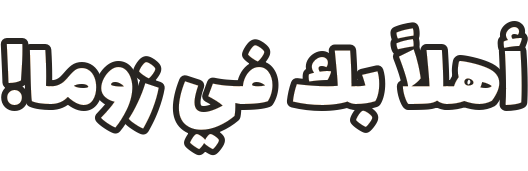
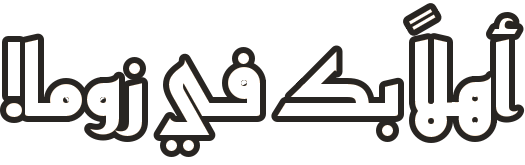
Arabic: stone words follow the stone's slant/perspective; wooden button words smaller and centred; welcome in Kufi, smaller
Claude-Session: https://claude.ai/code/session_01PLa1pRBxpEYJaiQfMqPxWP

Changed region(s): [[0.0, 0.0, 1.0, 0.9697]]

diff --git a/tools/make_arabic_buttons.py b/tools/make_arabic_buttons.py
@@ -19,6 +19,7 @@ import cv2
 from PIL import Image, ImageDraw, ImageFont
 
 HERE = os.path.dirname(os.path.abspath(__file__))
+CARVED_GEOM = None
 ROOT = os.path.dirname(HERE)
 UPSTREAM = 'b05dc19'   # original pictures, before any change of ours
 KUFI = os.path.join(HERE, 'fonts', 'ReemKufi.ttf')
@@ -67,6 +68,35 @@ def inner_band(h, w, style):
     else:
         b[int(h * .22):int(h * .90), int(w * .20):int(w * .80)] = 1
     return b
+
+# wooden buttons: part of the width that is the flat board (not the arrow)
+body_box = {
+    'رجوع': (0.20, 0.97),     # BACK: arrow on the left
+    'التالي': (0.03, 0.78),   # NEXT: arrow on the right
+    'العب': (0.04, 0.96),
+    'القائمة الرئيسية': (0.05, 0.95),
+    'القائمة': (0.05, 0.95),
+}
+
+def text_lines(m):
+    """Top and bottom lines of the old letters (they follow the stone)."""
+    xs, tops, bots = [], [], []
+    for x in range(m.shape[1]):
+        ys = np.where(m[:, x] > 0)[0]
+        if len(ys) > 3:
+            xs.append(x); tops.append(ys.min()); bots.append(ys.max())
+    xs = np.array(xs, np.float32)
+    def robust(vals):
+        vals = np.array(vals, np.float32)
+        p = np.polyfit(xs, vals, 1)
+        for _ in range(2):
+            r = np.abs(np.polyval(p, xs) - vals)
+            keep = r <= np.percentile(r, 60)
+            p = np.polyfit(xs[keep], vals[keep], 1)
+        p[0] = float(np.clip(p[0], -0.15, 0.15))
+        p[1] = float(np.median(vals - p[0] * xs))
+        return lambda x, p=p: float(np.polyval(p, x))
+    return robust(tops), robust(bots)
 
 def arabic_mask(text, lines):
     font = ImageFont.truetype(KUFI, 160, layout_engine=ImageFont.Layout.RAQM)
@@ -163,14 +193,50 @@ def paint_state(reg, style, text, lines, ref_mask=None, ref_box=None, seed=0):
     bx0, by0, bx1, by1 = box
     bw, bh = bx1 - bx0 + 1, by1 - by0 + 1
     a_src = arabic_mask(text, lines)
-    if style == 'embossed':
-        a_fit = fit(a_src, bw * 0.85, bh * 0.92, style)
+    a = np.zeros((h, w), np.float32)
+    if style == 'carved':
+        # follow the stone: same slant and perspective as the English letters.
+        # The shape is measured on the normal state and reused (moved) on the
+        # others, so the word has the same size in all three.
+        global CARVED_GEOM
+        ys_m, xs_m = np.where(m > 0)
+        cen = (xs_m.mean(), ys_m.mean())
+        if seed == 0:
+            CARVED_GEOM = (text_lines(m), (bx0, bx1), cen)
+        (t0, b0), (gx0, gx1), c0 = CARVED_GEOM
+        dx, dy = cen[0] - c0[0], cen[1] - c0[1]
+        top_l = lambda x, t0=t0: t0(x - dx) + dy
+        bot_l = lambda x, b0=b0: b0(x - dx) + dy
+        bx0, bx1 = gx0 + dx, gx1 + dx
+        bw = bx1 - bx0 + 1
+        hav = np.mean([bot_l(x) - top_l(x) for x in (bx0, bx1)])
+        ar = a_src.shape[1] / a_src.shape[0]
+        tw = min(bw * 1.0, hav * 1.3 * ar)
+        cx = (bx0 + bx1) / 2
+        x0, x1 = cx - tw / 2, cx + tw / 2
+        shrink = (hav - min(hav, tw / ar)) / 2
+        src = cv2.resize(a_src, (int(tw), int(hav)), interpolation=cv2.INTER_AREA)
+        # keep the word's shape: letters fill the height only as much as they need
+        sh, sw = src.shape
+        quad_src = np.float32([[0, 0], [sw, 0], [sw, sh], [0, sh]])
+        quad_dst = np.float32([[x0, top_l(x0) + shrink], [x1, top_l(x1) + shrink],
+                               [x1, bot_l(x1) - shrink], [x0, bot_l(x0) - shrink]])
+        P = cv2.getPerspectiveTransform(quad_src, quad_dst)
+        a = cv2.warpPerspective(src, P, (w, h), flags=cv2.INTER_LINEAR)
+        gy, th = int(min(top_l(x0), top_l(x1))), int(hav)
     else:
-        a_fit = fit(a_src, bw * 1.04, bh * 0.98, style)
-    th, tw = a_fit.shape
-    gx = int(bx0 + (bw - tw) / 2); gy = int(by0 + (bh - th) / 2)
-    gx = max(0, min(w - tw, gx)); gy = max(0, min(h - th, gy))
-    a = np.zeros((h, w), np.float32); a[gy:gy + th, gx:gx + tw] = a_fit
+        if style == 'embossed':
+            a_fit = fit(a_src, bw * 0.85, bh * 0.92, style)
+            cx, cy = (bx0 + bx1) / 2, (by0 + by1) / 2
+        else:
+            body = body_box.get(text)
+            bx0b, bx1b = (body[0] * w, body[1] * w) if body else (bx0, bx1)
+            a_fit = fit(a_src, (bx1b - bx0b) * 0.80, bh * 0.78, style)
+            cx, cy = (bx0b + bx1b) / 2, h * 0.5 - 1
+        th, tw = a_fit.shape
+        gx = int(cx - tw / 2); gy = int(cy - th / 2)
+        gx = max(0, min(w - tw, gx)); gy = max(0, min(h - th, gy))
+        a[gy:gy + th, gx:gx + tw] = a_fit
     a = np.clip(a * 1.2, 0, 1)
 
     # letter colours: same gradient as the English letters had

diff --git a/src/menu/MenuMgr.c b/src/menu/MenuMgr.c
@@ -1452,7 +1452,10 @@ void MenuMgr_DrawWelcome(Engine *engine, MenuMgr* m) {
     int cur = m->profiles.current;
     if (cur >= 0) {
         SDL_snprintf(buff, sizeof(buff), "WELCOME TO ZUMA HD, %s!", m->profiles.names[cur]);
-        Engine_DrawTextExt(engine, buff, FONT_NATIVE_ALIEN_EXT_16, white, false, true, 640, 0);
+        /* Arabic: Kufi, a bit smaller so it sits nicely in the sky */
+        Engine_DrawTextExtScale(engine, buff, FONT_NATIVE_ALIEN_EXT_16,
+            Lang_Get() == LANG_AR ? 0.8f : 1.0f, white, false, true, 640,
+            Lang_Get() == LANG_AR ? 6 : 0);
 
     } else {
         Engine_DrawTextExt(engine, "WELCOME TO ZUMA HD!", FONT_NATIVE_ALIEN_EXT_16, white, false, true, 640, 0);
